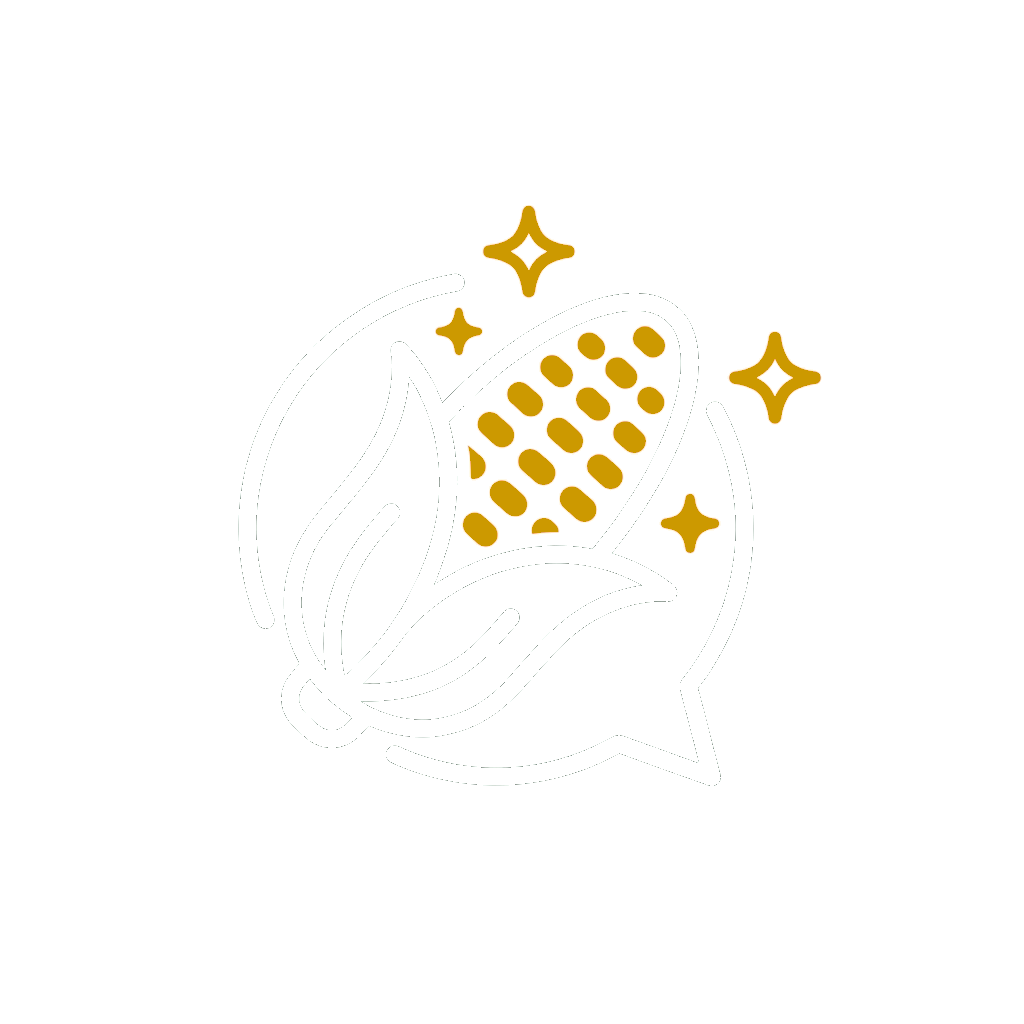
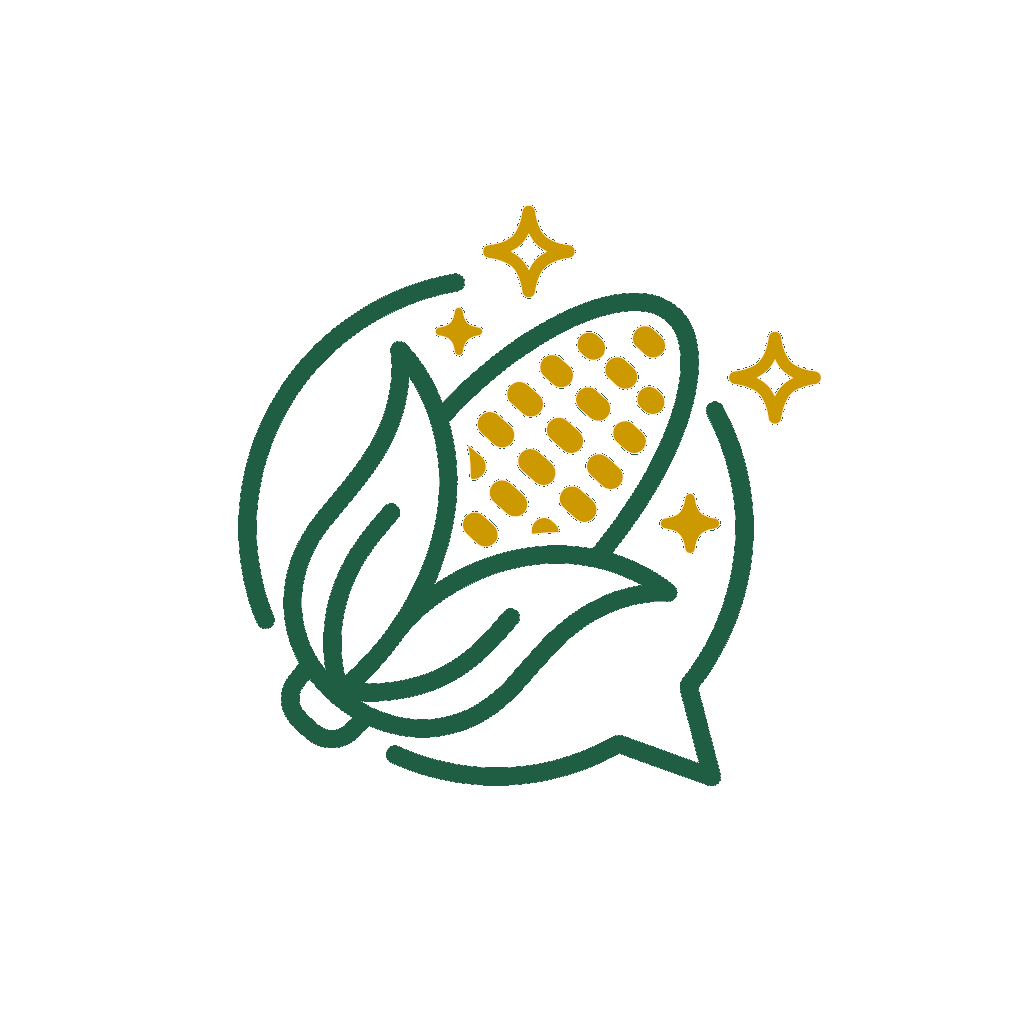
Voice bot

Changed region(s): [[0.2188, 0.25, 0.75, 0.7812]]

diff --git a/lib/screens/home_screen.dart b/lib/screens/home_screen.dart
@@ -316,6 +316,39 @@ class _HomeScreenState extends State<HomeScreen> {
         ],
       ),
       bottomNavigationBar: const CustomBottomNav(currentIndex: 0),
+      floatingActionButton: _buildVoiceAssistantBubble(context),
+    );
+  }
+
+  Widget _buildVoiceAssistantBubble(BuildContext context) {
+    return Tooltip(
+      message: AppLocalizations.of(context)!.voiceAssistantEntryTooltip,
+      child: InkWell(
+        borderRadius: BorderRadius.circular(32),
+        onTap: () => Navigator.push(
+          context,
+          MaterialPageRoute(builder: (_) => const VoiceAssistantScreen()),
+        ),
+        child: Container(
+          width: 64,
+          height: 64,
+          decoration: BoxDecoration(
+            shape: BoxShape.circle,
+            color: Colors.white,
+            boxShadow: [
+              BoxShadow(
+                color: Colors.black.withValues(alpha: 0.25),
+                blurRadius: 12,
+                offset: const Offset(0, 4),
+              ),
+            ],
+          ),
+          child: Padding(
+            padding: const EdgeInsets.all(8),
+            child: Image.asset('lib/assets/images/AI_icon.png'),
+          ),
+        ),
+      ),
     );
   }
 
@@ -356,20 +389,6 @@ class _HomeScreenState extends State<HomeScreen> {
               color: Colors.white,
               shadows: _onImageShadow,
             ),
-          ),
-        ),
-        IconButton(
-          tooltip: AppLocalizations.of(context)!.voiceAssistantEntryTooltip,
-          padding: EdgeInsets.zero,
-          constraints: const BoxConstraints(),
-          icon: Image.asset(
-            'lib/assets/images/AI_icon.png',
-            width: 56,
-            height: 56,
-          ),
-          onPressed: () => Navigator.push(
-            context,
-            MaterialPageRoute(builder: (_) => const VoiceAssistantScreen()),
           ),
         ),
         StreamBuilder<DocumentSnapshot<Map<String, dynamic>>>(
